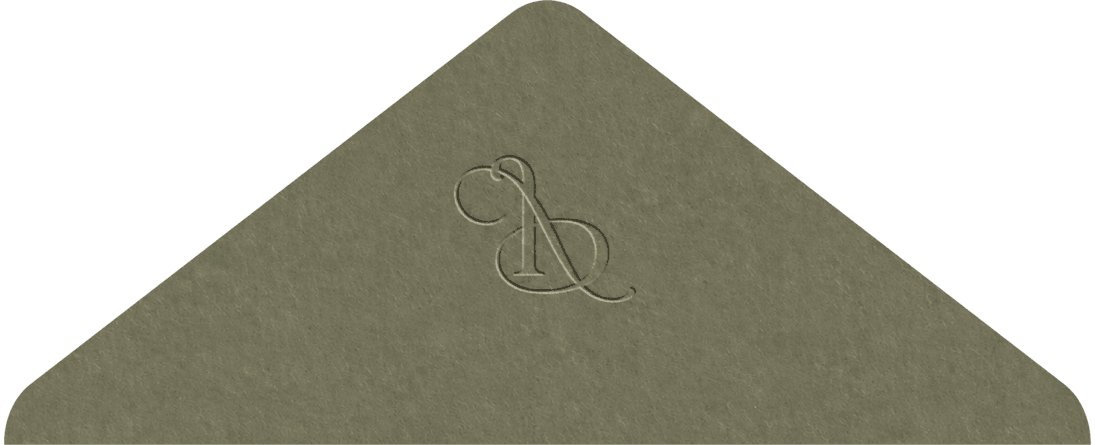
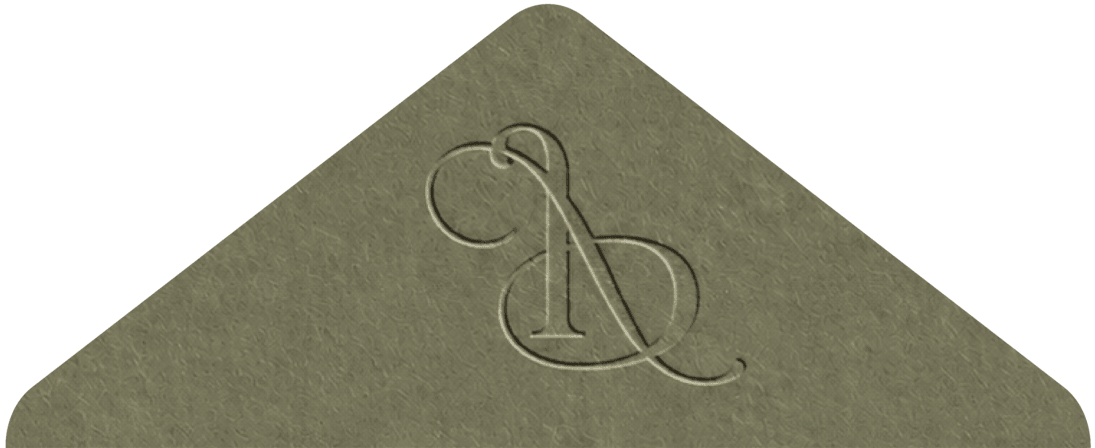
Add files via upload

diff --git a/piliyjuanpa/index.html b/piliyjuanpa/index.html
@@ -344,10 +344,10 @@
     /* 4. Solapa superior animada (1.1s) */	
     .envelope-flap {
       position: absolute !important;
-      top: -50% !important;
+      top: -51.5% !important;
       left: 0.3% !important;
       width: 100% !important;
-      height: 50% !important;
+      height: 51.5% !important;
       background-image: url('assets/solapa_frontal.png') !important;
       background-size: 100% 100% !important;
       background-repeat: no-repeat !important;
@@ -622,7 +622,7 @@
 
       function obtenerPosicionBoton() {
         const rect = envelopeWrapper.getBoundingClientRect();
-        return `${rect.top + (rect.height * 0.86)}px`;
+        return `${rect.top + (rect.height * 0.70)}px`;
       }
 
       Promise.all([
